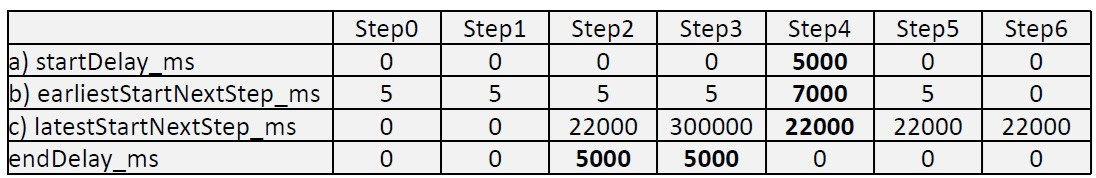
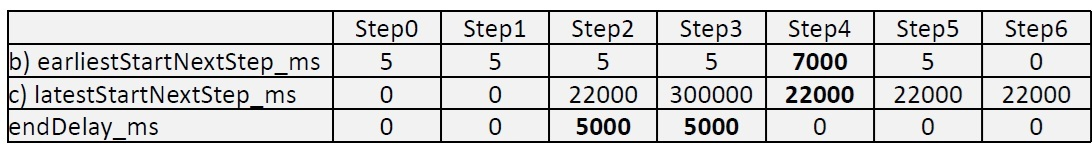
Documentation changed for removing of startDelay

diff --git a/docs/SequenceTiming.md b/docs/SequenceTiming.md
@@ -5,7 +5,6 @@ Example for a possible timing for the timing diagramm below:
 
 <img src="picturesFromDocument/100_StepTimeTable.jpg"  width=70% height=70%>
 
-a) Because forceStep skips the startDelay, I would use startDelay only where it makes sense. endDelay is the normal delay.\
 b) earliestStartNextStep_ms: When this time is elapsed, it is allowed to transfer to the next step.\
 c) latestStartNextStep_ms: The next transit must be in this time. 0 is to switch it totally off.
 
@@ -13,7 +12,7 @@ c) latestStartNextStep_ms: The next transit must be in this time. 0 is to switch
 
 1\) Transit 0->2:&emsp;&emsp;You can transit between every step\
 2\) endDelay Step2:&emsp;&emsp;After the endDelay it switches to the next step.\  
-3\) endDelay Step3   startDelay Step4&emsp;&emsp;If you have both, they are cumulated.\
+3\) endDelay Step3
 4\) earliestStartNextStep Step4:&emsp;&emsp;After this time is elapsed, it is allowed to transit to the next Step(5). See error page.\
 5\) latestStartNextStep Step4:&emsp;&emsp;Before this time is elapsed, the transit to Step(5) must be done. See error page.\
 6\) Transit 4->5:&emsp;&emsp;It is between end of earliestStartNextStep Step4 and latestStartNextStep Step4, so it is correct.\
@@ -26,17 +25,15 @@ c) latestStartNextStep_ms: The next transit must be in this time. 0 is to switch
 
 1\) earliestStartNextStep Step3:&emsp;&emsp;The error is immediately when the transit is to early.\
 The Step4 is not activated here, because of the error.\
-A startDelay Step4 would not be part of the earliestStartNextStep. So this timing graph would exactly look the same.\
 2\) forceStep 4:&emsp;&emsp;In this example we force Step4. We imagine that the next position was reached manually after the error, and than we force the next step.
    - Errors are reset.
-   - Forcing a step skips the startDelay (when Step4 would have a startDelay).
    - latestStartNextStep (and earliestStartNextStep) always start at the activation of a step.
 
 3\) latestStartNextStep Step4:&emsp;&emsp;The error is immediately when the latestStartNextStep is elapsed.
 ***
 &emsp;&emsp;**Functions and pointer variables**
 - void set_nextStep(StepType nextStep)
-After _startDelay/_endDelay and no Error, this _nextStep will be the _actualStep.
+After _endDelay and no Error, this _nextStep will be the _actualStep.
 - void sequenceProcess()
 Call this in every loop().
 - StepType get_actualStep()
@@ -44,7 +41,6 @@ Get the actual active step.
 - void set_forceStepImmediately(StepType forceStep);
   - Force to the forceStep 
   - Reset Errors
-  - No startDelay
 
 - bool get_error_latestStartNextStepElapsed()  -  in_latestStartNextStep_ms[] 
   - You can use this as fatal error (restart of device, or reset button press – force step).
@@ -57,11 +53,9 @@ Get the actual active step.
   - You can use this as fatal error (restart of device, or reset button press – force step).
   - You can directly change in_earliestStartNextStep_ms[] of the actual step. And repeat the actual step with forceStepImmediately..
 
-- in_startDelay_ms[] / in_endDelay_ms[]
-The delay between two steps is always endDelay + startDelay. Use it where it is more reasonable.
-Example for startDelay: Before a cylinder moves, you want to wait a vibration time. So use the startDelay
+- in_endDelay_ms[]
+The delay between two steps is always endDelay.
 Example for endDelay: After you send some text to a display, the user should have some time read, but than you want to proceed.
-Normally endDelay is used because at forcing to a step the startDelay is skipped.
 You can always write to them. They will immediately valid (pointer)
 
 - out_stepTime_ms[]

diff --git a/readme.md b/readme.md
@@ -5,7 +5,6 @@ Sequencer is the same as state machine and step chains. It has nothing to do wit
 If you want to use a sequence chain, you have very often to use timing. Then you need to use "SequenceTiming."
 
 ***Advantage***
-- startDelay of every step
 - endDelay of every step
 - Error when time of one step is elapsed is possible.
 - Error when the next step was to early activated is possible.
